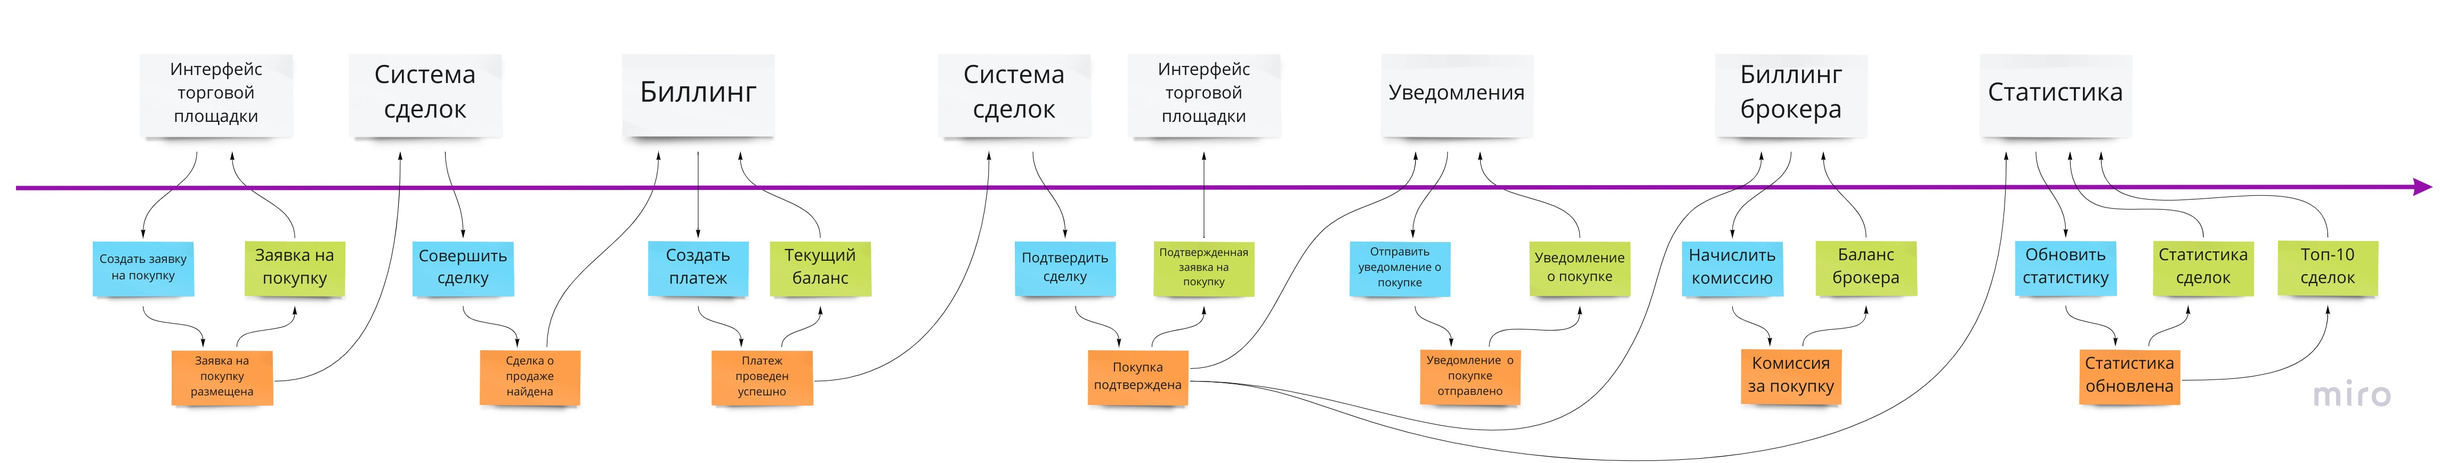
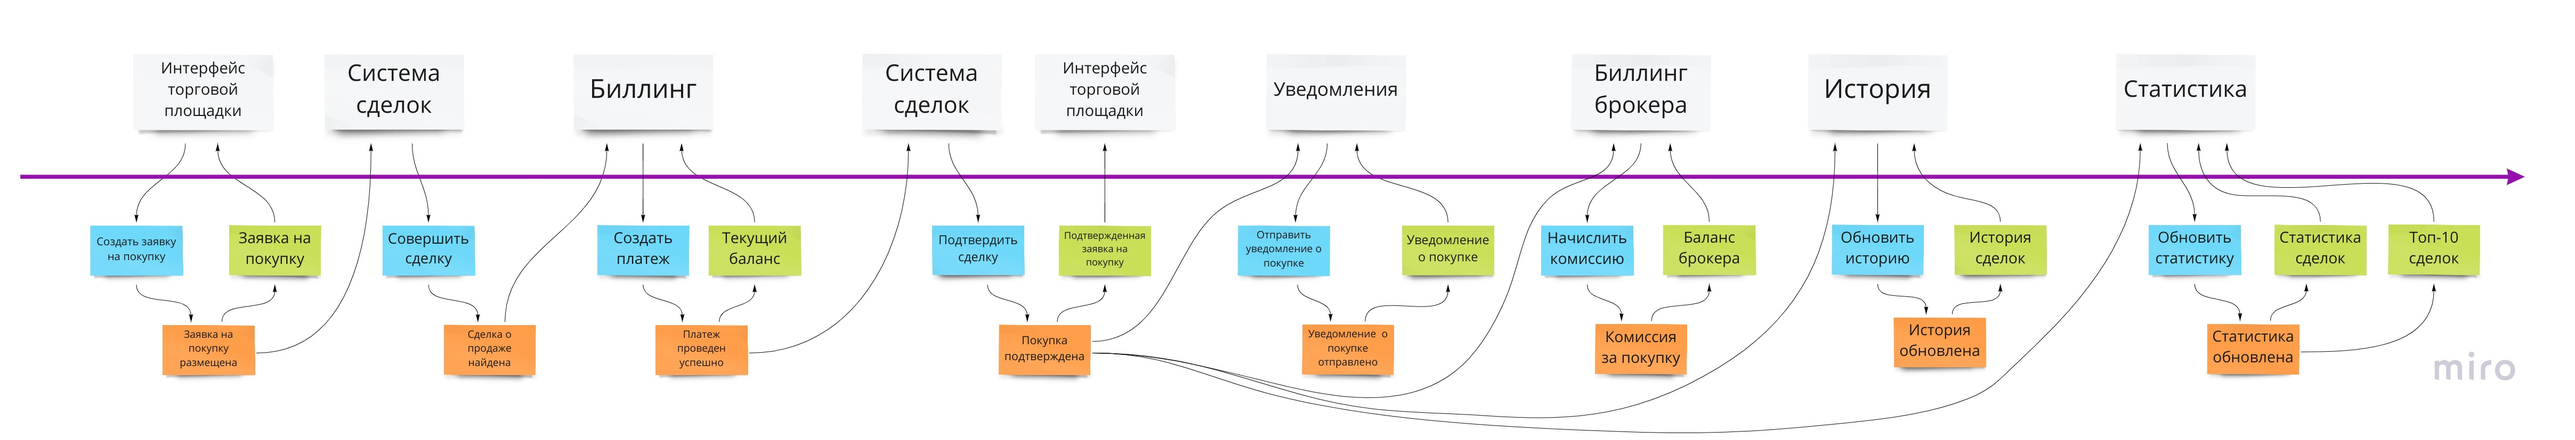
docs updated

diff --git a/docs/02_design.md b/docs/02_design.md
@@ -36,3 +36,7 @@
 ## Предлагаемая структура микросервисов
 
 ![Структура микросервисов](images/microservice-map-v1.jpg)
+
+## Схема взаимодействия сервисов
+
+![Схема взаимодействия сервисов](images/microservice-scheme.jpg)

diff --git a/README.md b/README.md
@@ -4,7 +4,7 @@
 
 ## TODO
 
-* [ ] добавить портфель и историю в схемы
+* [x] добавить портфель и историю в схемы
 * [x] регистрация брокера
   * [x] user role
   * [x] user role in gateway
